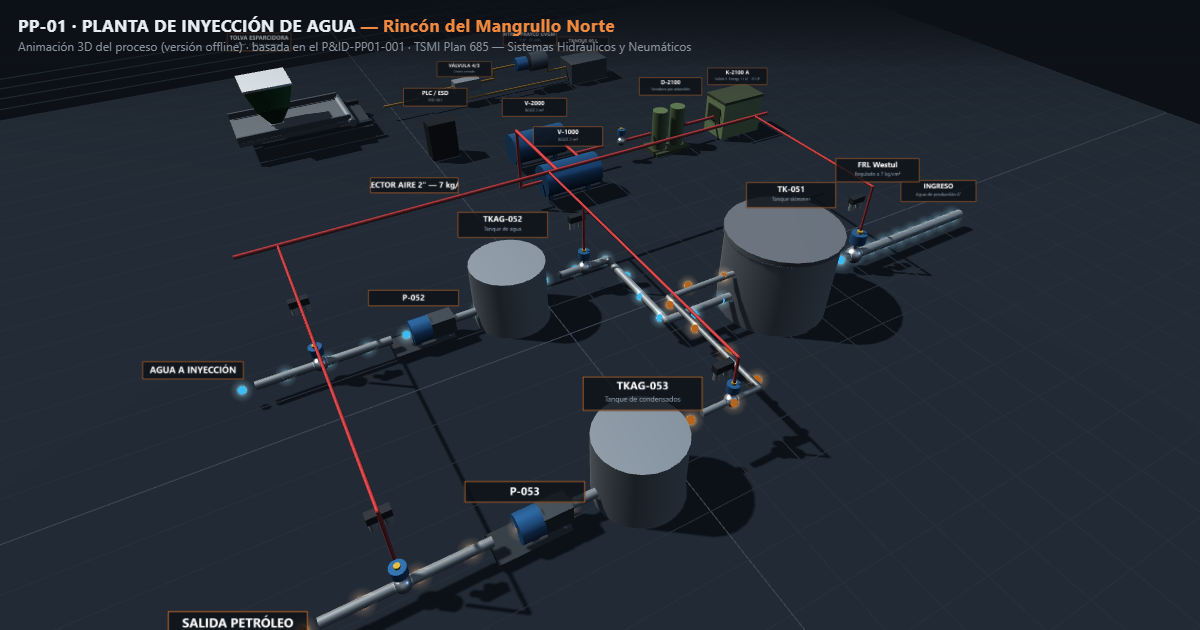
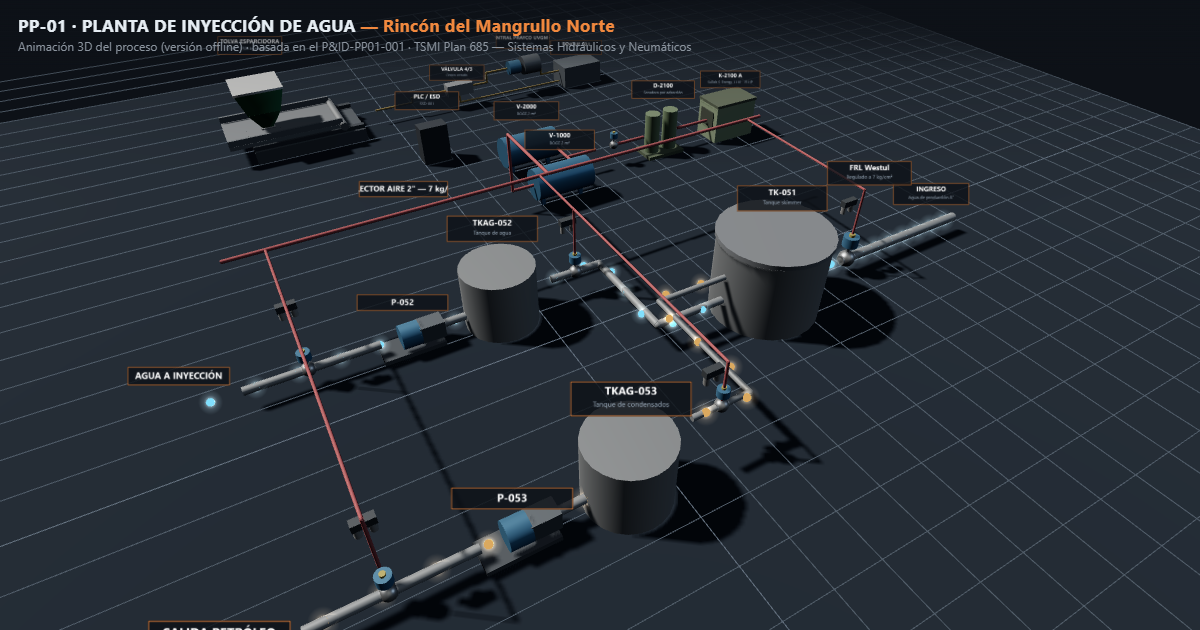
Gestion de color: sRGB + ACES, con la paleta recalibrada
Ultimo hallazgo pendiente de la auditoria. La escena se escribia en espacio
lineal, sin correccion gamma: los colores salian apagados por mas que se
subieran las luces.

- outputEncoding sRGB + ACESFilmicToneMapping, exposicion 0.46.
- Texturas de canvas marcadas como sRGB (etiquetas, halo, entorno). Sin esto
  salian lavadas.
- Recalibrado completo, que es lo que esta correccion arrastra: hemisferica
  0.42 -> 0.18, sol 0.95 -> 1.30, piso 0x1b222b -> 0x0d1219, grilla y entorno
  mas oscuros. Con los valores viejos la escena se iba a blanco y se perdia
  la estetica nocturna.
- toneMapped:false en fluidos, halos, etiquetas y LED: son señalizacion
  didactica, no superficies fisicas. ACES les comprimia las altas luces y les
  sacaba el punch que los hace visibles sobre el piso oscuro.

Verificado en los cuatro modos, en escritorio y en telefono. El fallback de
rendimiento sigue funcionando: decide a los 4195 ms y apaga las sombras si el
equipo no sostiene 24 fps.

diff --git a/index.html b/index.html
@@ -332,7 +332,7 @@ const COL = {
   proceso:0x9aa4ad, agua:0x38bdf8, petroleo:0xb5651d,
   aire:0xe5484d, senal:0x58a6ff, aceite:0xe2a03f,
   acero:0xb8c1cb, verde:0x8fae7a, azul:0x2f6fb0, gris:0x6e7681,
-  piso:0x1b222b, amarillo:0xd6b03a
+  piso:0x0d1219, amarillo:0xd6b03a
 };
 /* Resplandor de cada fluido: tono más claro que el núcleo. Se dibuja con mezcla
    aditiva, así que sobre el piso oscuro suma luz en vez de taparlo.            */
@@ -356,6 +356,14 @@ function init(){
   renderer = new THREE.WebGLRenderer({antialias:true});
   renderer.setPixelRatio(Math.min(devicePixelRatio,2));
   renderer.setSize(innerWidth, innerHeight);
+  /* Gestión de color: hasta acá la escena se escribía en espacio lineal, sin
+     corrección gamma, y por eso los colores salían apagados por más que se
+     subieran las luces. Con sRGB + ACES la respuesta es correcta, pero obliga
+     a recalibrar exposición, luces y paleta (abajo).                          */
+  renderer.outputEncoding      = THREE.sRGBEncoding;
+  renderer.toneMapping         = THREE.ACESFilmicToneMapping;
+  renderer.toneMappingExposure = 0.46;
+
   renderer.shadowMap.enabled = true;
   renderer.shadowMap.type    = THREE.PCFSoftShadowMap;
   // La planta es estática salvo la rampa: el mapa de sombras no se recalcula
@@ -364,11 +372,12 @@ function init(){
   renderer.shadowMap.needsUpdate = true;
   app.appendChild(renderer.domElement);
 
-  // La hemisférica baja porque ahora parte de la luz ambiente la aporta el entorno.
-  scene.add(new THREE.HemisphereLight(0xbfd4ea, 0x14181d, 0.42));
-  const sol = new THREE.DirectionalLight(0xfff1dd, 0.95);
+  // Recalibradas para gamma correcta: menos ambiente y un sol más marcado, que
+  // es lo que da relieve. Con los valores viejos la escena se iba a blanco.
+  scene.add(new THREE.HemisphereLight(0xbfd4ea, 0x14181d, 0.18));
+  const sol = new THREE.DirectionalLight(0xfff1dd, 1.30);
   sol.position.set(40, 60, 30); scene.add(sol);
-  const relleno = new THREE.DirectionalLight(0x7fa8d8, 0.22);
+  const relleno = new THREE.DirectionalLight(0x7fa8d8, 0.16);
   relleno.position.set(-40, 25, -30); scene.add(relleno);
 
   // El acero necesita algo que reflejar: sin esto, metalness sólo ensucia.
@@ -390,7 +399,7 @@ function init(){
     new THREE.MeshStandardMaterial({color:COL.piso, roughness:1, metalness:0}));
   piso.rotation.x = -Math.PI/2; piso.position.y = -0.05;
   piso.receiveShadow = true; scene.add(piso);
-  const grid = new THREE.GridHelper(220, 44, 0x3d4854, 0x272f39);
+  const grid = new THREE.GridHelper(220, 44, 0x212b37, 0x151c24);
   grid.position.y = 0; scene.add(grid);
 
   clock = new THREE.Clock();
@@ -406,7 +415,7 @@ function init(){
     o.castShadow = true; o.receiveShadow = true;
     o.material.envMapIntensity = o.material.metalness > 0.45 ? 1.1 : 0.28;
   });
-  piso.material.envMapIntensity = 0.18;
+  piso.material.envMapIntensity = 0.10;
 
   addEventListener('resize', onResize);
 }
@@ -418,8 +427,8 @@ function entornoProcedural(){
   const cv = document.createElement('canvas'); cv.width = 512; cv.height = 256;
   const ctx = cv.getContext('2d');
   const g = ctx.createLinearGradient(0, 0, 0, 256);
-  g.addColorStop(0,    '#3a4a5e');
-  g.addColorStop(0.46, '#1a222c');
+  g.addColorStop(0,    '#26313f');
+  g.addColorStop(0.46, '#111821');
   g.addColorStop(0.54, '#0b0f14');
   g.addColorStop(1,    '#04060a');
   ctx.fillStyle = g; ctx.fillRect(0, 0, 512, 256);
@@ -430,7 +439,8 @@ function entornoProcedural(){
     ctx.fillStyle = rg; ctx.fillRect(x - r, y - r, r * 2, r * 2);
   });
   const tex = new THREE.CanvasTexture(cv);
-  tex.mapping = THREE.EquirectangularReflectionMapping;
+  tex.mapping  = THREE.EquirectangularReflectionMapping;
+  tex.encoding = THREE.sRGBEncoding;   // el canvas ya viene en sRGB
   const pmrem = new THREE.PMREMGenerator(renderer);
   const env = pmrem.fromEquirectangular(tex).texture;
   pmrem.dispose(); tex.dispose();
@@ -491,8 +501,10 @@ function etiqueta(txt,x,y,z,sub){
            ctx.fillText(sub, cv.width/2, 108); }
   // Con depthTest activo la etiqueta queda detrás de lo que la tapa: sin esto,
   // los carteles de equipos lejanos se dibujaban sobre los tanques de adelante.
+  const texEt = new THREE.CanvasTexture(cv);
+  texEt.encoding = THREE.sRGBEncoding;
   const sp=new THREE.Sprite(new THREE.SpriteMaterial({
-    map:new THREE.CanvasTexture(cv), depthTest:true, transparent:true}));
+    map:texEt, depthTest:true, transparent:true, toneMapped:false}));
   sp.position.set(x,y,z);
   sp.scale.set(9, sub?2.64:1.69, 1);
   sp.renderOrder=999; scene.add(sp); etiquetas.push(sp); return sp;
@@ -510,7 +522,9 @@ const texHalo = (()=>{
   g.addColorStop(0.55,'rgba(255,255,255,0.16)');
   g.addColorStop(1,   'rgba(255,255,255,0)');
   ctx.fillStyle=g; ctx.fillRect(0,0,64,64);
-  return new THREE.CanvasTexture(cv);
+  const t = new THREE.CanvasTexture(cv);
+  t.encoding = THREE.sRGBEncoding;
+  return t;
 })();
 
 /* Cada partícula es un núcleo opaco de color pleno más un halo aditivo que la
@@ -521,10 +535,13 @@ function flujo(pts, color, n, vel, tam, op){
   const curva = new THREE.CatmullRomCurve3(pts.map(p=>new THREE.Vector3(...p)));
   const r   = tam||0.34;
   const geo = new THREE.SphereGeometry(r, 10, 8);
-  const m   = new THREE.MeshBasicMaterial({color});
+  /* toneMapped:false — el fluido es señalización didáctica, no una superficie
+     física. Si pasa por ACES se le comprimen las altas luces y pierde el punch
+     que lo hace visible sobre el piso oscuro.                                 */
+  const m   = new THREE.MeshBasicMaterial({color, toneMapped:false});
   const brillo = o.brillo!==undefined ? o.brillo : 0.8;
   const matHalo = new THREE.SpriteMaterial({
-    map:texHalo, color:o.halo||color, transparent:true,
+    map:texHalo, color:o.halo||color, transparent:true, toneMapped:false,
     blending:THREE.AdditiveBlending, depthWrite:false, opacity:brillo});
   const bolas=[];
   for(let i=0;i<n;i++){
@@ -684,7 +701,7 @@ function construirPlanta(){
   /* ================= PLC / ESD ================= */
   const plc = caja(4,5.5,2.2,0x21262d,-2,2.75,44);
   const led = esfera(0.45,0x3fb950,-2,4.6,45.2,
-        new THREE.MeshBasicMaterial({color:0x3fb950}));
+        new THREE.MeshBasicMaterial({color:0x3fb950, toneMapped:false}));
   equipos.plc=plc; equipos.led=led;
   etiqueta('PLC / ESD',-2,9,44,'SSD-001');
 
